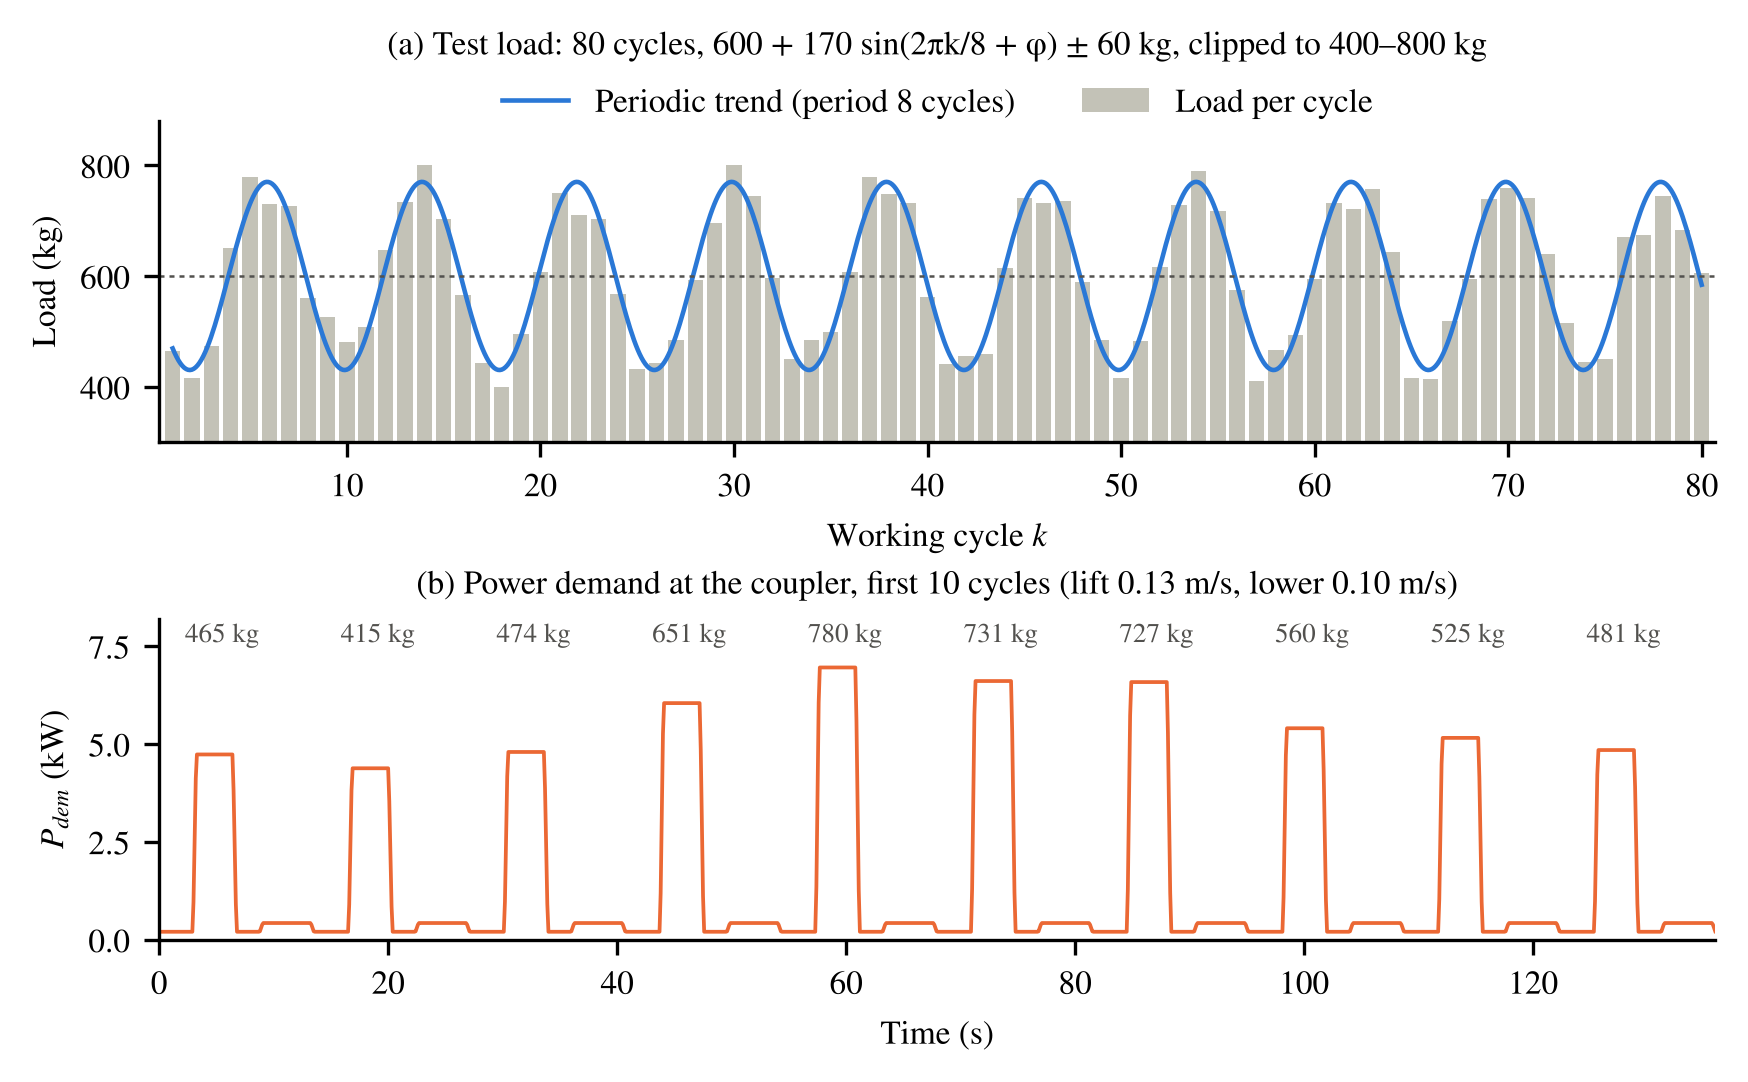
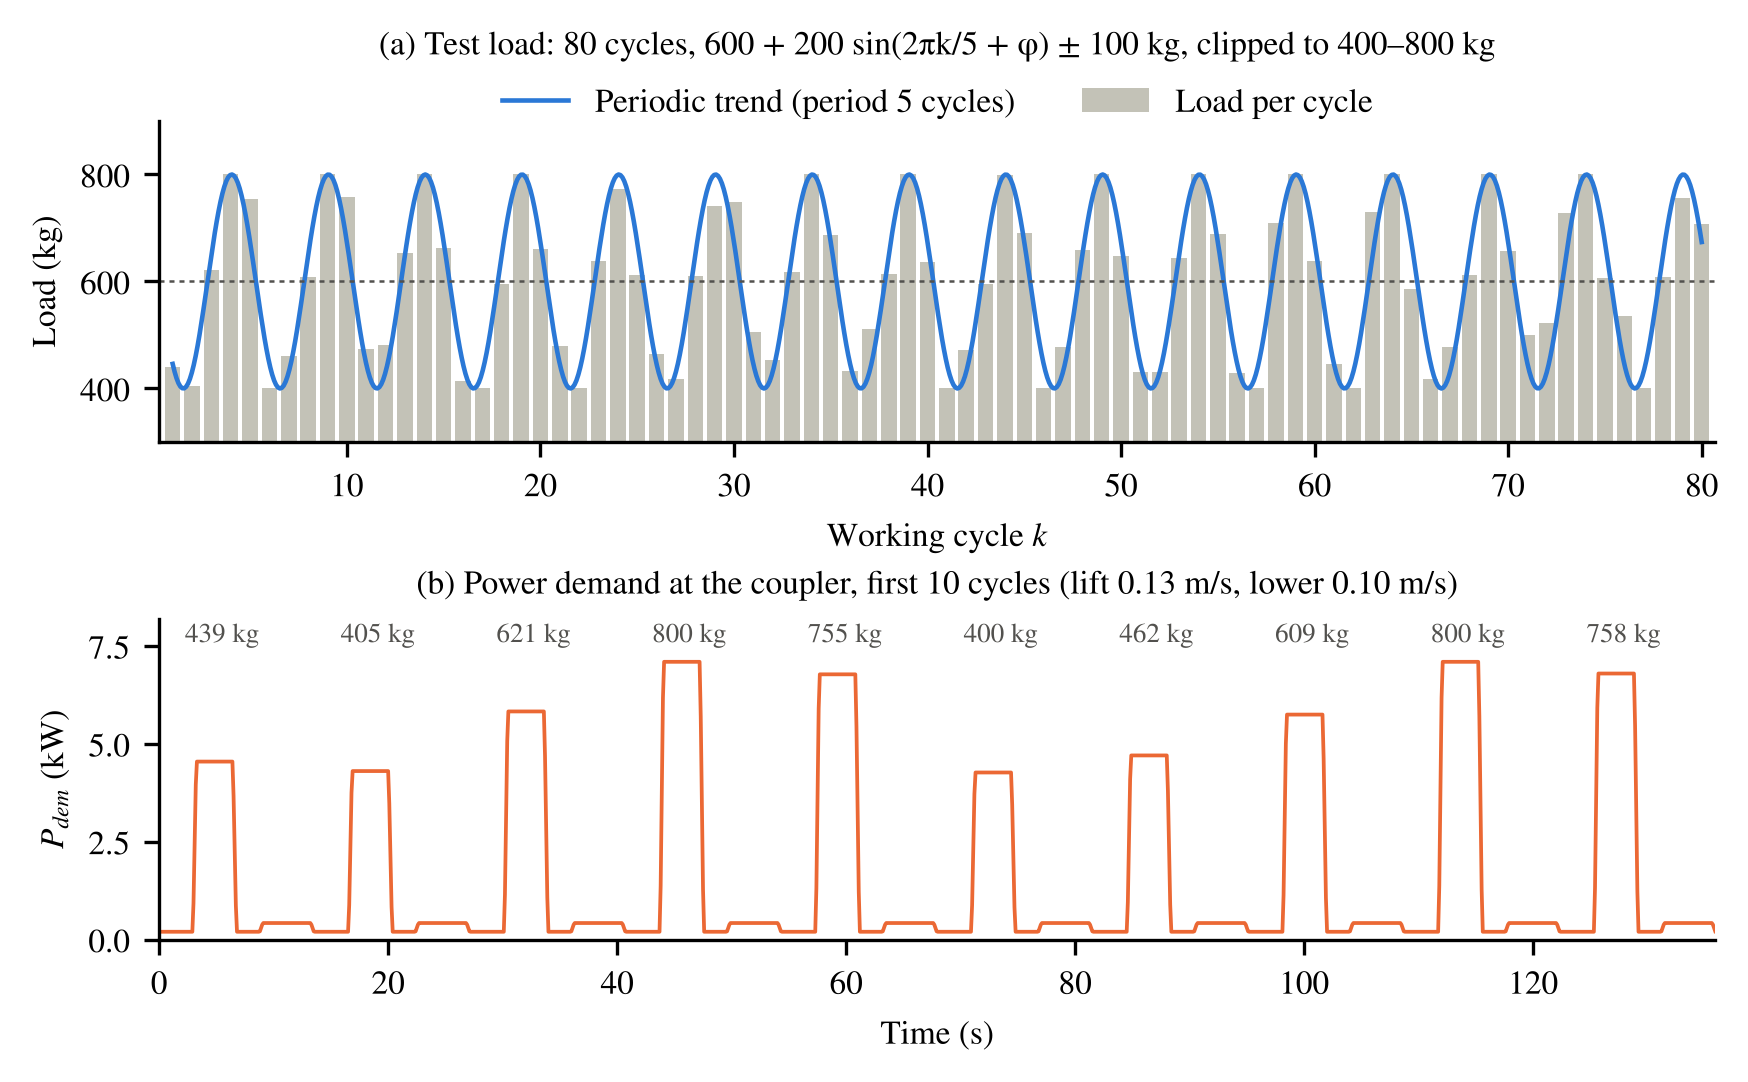
Make the periodic load faster and stronger (P = 3-5 cycles, 600 +- 200 kg, noise +-100 kg)
Adds scripts/plot_load.py for the load-profile preview. Training and test evaluation
wait for the profile to be approved.

Claude-Session: https://claude.ai/code/session_018sSAYkUHjZ6fBfFmKnHFoW

diff --git a/scripts/plot_load.py b/scripts/plot_load.py
@@ -1,0 +1,36 @@
+"""Plot the test load sequence and the power demand of the first cycles (load_profile_test.png)."""
+import sys; from pathlib import Path; sys.path.insert(0, str(Path(__file__).resolve().parents[1]))
+import numpy as np, matplotlib
+matplotlib.use("Agg")
+import matplotlib.pyplot as plt
+from excavator import params as p, scenario as S
+plt.rcParams.update({"font.family": "STIXGeneral", "mathtext.fontset": "stix", "font.size": 8,
+                     "svg.fonttype": "none", "savefig.dpi": 300})
+CM = 1 / 2.54
+rng = np.random.default_rng(p.TEST_SEED)
+period = int(rng.integers(p.LOAD_PERIOD_MIN, p.LOAD_PERIOD_MAX + 1)); phase = rng.uniform(0, 2 * np.pi)
+sc = S.test_scenario(); k = np.arange(1, len(sc.loads) + 1)
+trend = p.LOAD_MEAN + p.LOAD_AMPL * np.sin(2 * np.pi * (k - 1) / period + phase)
+fig, (a0, a1) = plt.subplots(2, 1, figsize=(17 * CM, 9 * CM), gridspec_kw=dict(hspace=0.55))
+a0.bar(k, sc.loads, width=0.8, color="#c3c2b7", label="Load per cycle")
+kk = np.linspace(1, k[-1], 800)
+a0.plot(kk, p.LOAD_MEAN + p.LOAD_AMPL * np.sin(2 * np.pi * (kk - 1) / period + phase), color="#2a78d6", lw=1.1,
+        label=f"Periodic trend (period {period} cycles)")
+a0.axhline(600, color="#52514e", lw=0.6, ls=(0, (2, 2)))
+a0.set_ylim(300, 900); a0.set_xlim(0.3, k[-1] + 0.7); a0.set_xticks(np.arange(10, 81, 10))
+a0.set_xlabel("Working cycle $k$"); a0.set_ylabel("Load (kg)")
+a0.legend(ncol=2, frameon=False, loc="upper center", bbox_to_anchor=(0.5, 1.2))
+a0.set_title(f"(a) Test load: 80 cycles, 600 + {p.LOAD_AMPL:.0f} sin(2πk/{period} + φ) ± {p.LOAD_NOISE:.0f} kg, clipped to 400–800 kg", fontsize=8, pad=16)
+m = sc.cycle < 10
+a1.plot(sc.time[m], sc.p_dem[m] / 1e3, color="#eb6834", lw=0.9)
+for c in range(10):
+    t0 = c * S.N_CYCLE * p.DT
+    a1.text(t0 + 5.5, 7.6, f"{sc.loads[c]:.0f} kg", ha="center", fontsize=6.5, color="#52514e")
+a1.set_ylim(0, 8.2); a1.set_xlim(0, sc.time[m][-1])
+a1.set_xlabel("Time (s)"); a1.set_ylabel("$P_{dem}$ (kW)")
+a1.set_title("(b) Power demand at the coupler, first 10 cycles (lift 0.13 m/s, lower 0.10 m/s)", fontsize=8)
+for ax in (a0, a1): ax.spines[["top", "right"]].set_visible(False)
+fig.savefig(str(Path(__file__).resolve().parents[1] / "results" / "figures" / "load_profile_test.png"), bbox_inches="tight")
+d = np.abs(np.diff(sc.loads))
+print(f"period {period}, min {sc.loads.min():.0f}, max {sc.loads.max():.0f}, mean {sc.loads.mean():.0f} kg, "
+      f"mean |change| {d.mean():.0f} kg, max change {d.max():.0f} kg")

diff --git a/excavator/params.py b/excavator/params.py
@@ -34,9 +34,9 @@ LOAD_MIN_JUMP = 150.0         # kg, minimum change of level between blocks
 # periodic load (current study, user decision): periodic trend + strong cycle-to-cycle variation
 #   m_k = 600 + A sin(2 pi k / P + phi) + U(-noise, noise), clipped to [400, 800] kg
 LOAD_MEAN = 600.0             # kg, centre of the periodic trend
-LOAD_AMPL = 170.0             # kg, amplitude of the periodic trend (ASSUMED)
-LOAD_NOISE = 60.0             # kg, random variation added to every cycle (ASSUMED)
-LOAD_PERIOD_MIN, LOAD_PERIOD_MAX = 5, 8   # cycles per load period, drawn per scenario (ASSUMED)
+LOAD_AMPL = 200.0             # kg, amplitude of the periodic trend (user: fast, strong variation)
+LOAD_NOISE = 100.0            # kg, random variation added to every cycle (user: fast, strong variation)
+LOAD_PERIOD_MIN, LOAD_PERIOD_MAX = 3, 5   # cycles per load period, drawn per scenario (user: fast variation)
 
 # ---------------------------------------------------------------- boom cylinder / load
 BORE = 0.050                  # m (GIVEN)

diff --git a/excavator/scenario.py b/excavator/scenario.py
@@ -3,7 +3,7 @@
 One cycle = hold at bottom (digging) -> lift (0.13 m/s) -> hold at top (dumping)
 -> lower (0.1 m/s, no regeneration). Speeds are the same in every cycle; only the
 load mass changes. The load is periodic with strong cycle-to-cycle variation:
-m_k = 600 + 170 sin(2 pi k / P + phi) + U(-60, 60) kg, P = 5-8 cycles, clipped to [400, 800] kg.
+m_k = 600 + 200 sin(2 pi k / P + phi) + U(-100, 100) kg, P = 3-5 cycles, clipped to [400, 800] kg.
 """
 from dataclasses import dataclass
 
@@ -109,7 +109,7 @@ def block_loads(n_cycles, rng):
 
 
 def periodic_loads(n_cycles, rng):
-    """Periodic trend (period 5-8 cycles, random phase) plus strong random variation per cycle."""
+    """Periodic trend (period 3-5 cycles, random phase) plus strong random variation per cycle."""
     period = int(rng.integers(p.LOAD_PERIOD_MIN, p.LOAD_PERIOD_MAX + 1))
     phase = rng.uniform(0.0, 2 * np.pi)
     k = np.arange(n_cycles)

diff --git a/README.md b/README.md
@@ -49,9 +49,10 @@ were compared on the validation scenarios. `results/archive_iid12/` keeps the fi
 (12 cycles, independent random load per cycle).
 
 > **In progress:** the load generator is now periodic with strong cycle-to-cycle variation
-> (`600 + 170 sin(2 pi k / P + phi) + U(-60, 60)` kg, P = 5-8 cycles; see
-> `results/figures/load_profile_test.png`). DDPG variants for it are in `results/variants/`;
-> the test evaluation waits for the load profile to be approved. The results below are from
+> (`600 + 200 sin(2 pi k / P + phi) + U(-100, 100)` kg, P = 3-5 cycles; see
+> `results/figures/load_profile_test.png`, `scripts/plot_load.py`). DDPG variants in
+> `results/variants/` were trained for the earlier P = 5-8 setting and will be retrained once the
+> profile is approved. The results below are from
 > the block-load study (same load for 8-12 cycles, `results/archive_block80/`).
 
 ## Results (test scenario, 80 cycles, block load)
